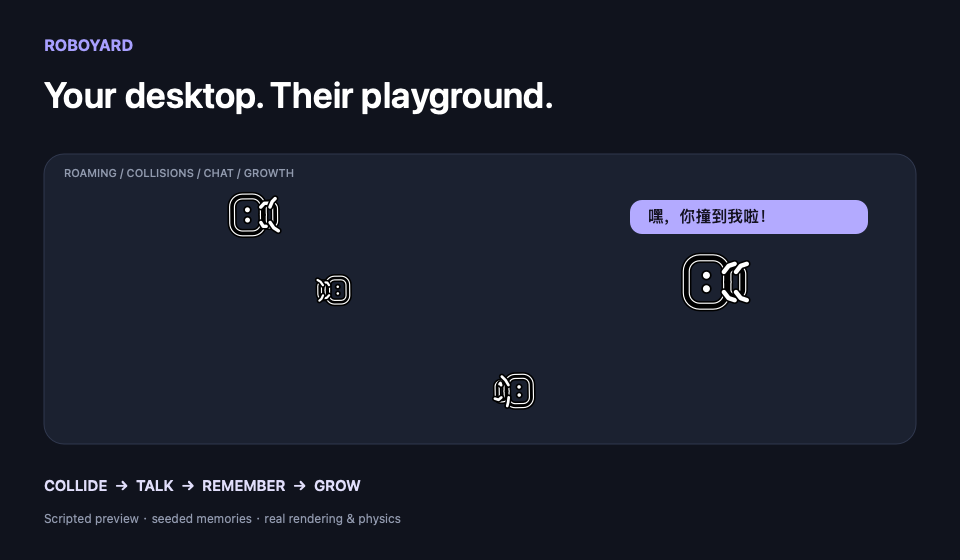
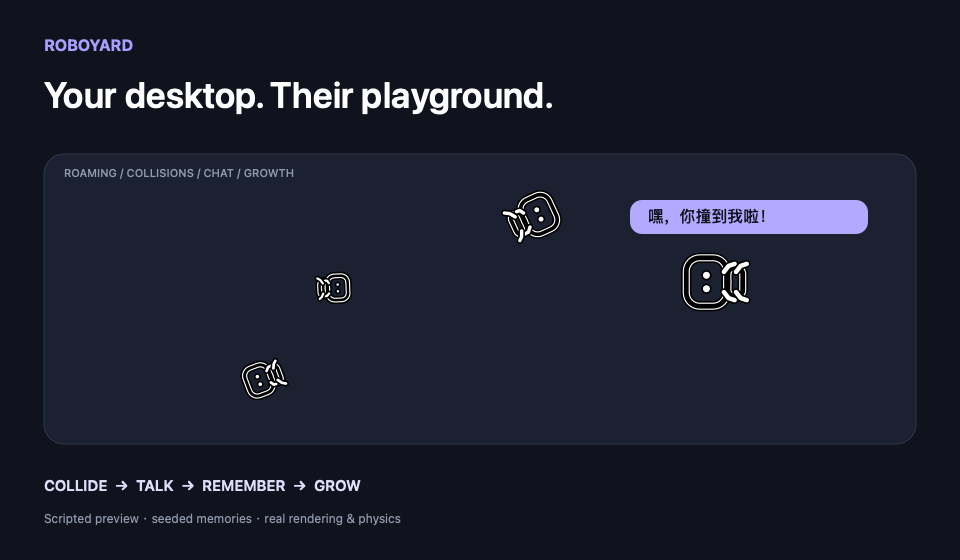
Ship 5.0: robot faces, battery bars, and unwind the force-unwraps
Styles (Closes #3):
- MBTI group accents (cheeks + antenna tips) on desk and portraits
- Growth antennae (nub/stalk/spark), sleepy eyes when tired
- On-desk energy bar, hidden at full charge

Fixes #1: pet bubbles wait their turn instead of stacking on chat.
Fixes #2: guard NSGraphicsContext.current, statusItem is Optional now.
Also: render-preview.sh was stale-broken; compiles whole app minus
@main now. Preview assets regenerated.

Tests: 58 green; bundle + strict signature verified.

diff --git a/Sources/RoboYard/RobotMark.swift b/Sources/RoboYard/RobotMark.swift
@@ -2,6 +2,24 @@ import AppKit
 import QuartzCore
 
 enum RobotMark {
+    /// Fixed sRGB palette so accents test exact and look the same on any wallpaper.
+    static func accent(for group: String) -> NSColor {
+        switch group {
+        case "NT": NSColor(srgbRed: 0.62, green: 0.50, blue: 0.95, alpha: 1)
+        case "NF": NSColor(srgbRed: 0.97, green: 0.52, blue: 0.70, alpha: 1)
+        case "SJ": NSColor(srgbRed: 0.30, green: 0.78, blue: 0.72, alpha: 1)
+        case "SP": NSColor(srgbRed: 1.00, green: 0.62, blue: 0.25, alpha: 1)
+        default: NSColor(srgbRed: 0.60, green: 0.60, blue: 0.65, alpha: 1)
+        }
+    }
+
+    static func energyTint(_ energy: Double) -> NSColor {
+        if energy <= ChargeLaw.goHomeBelow { NSColor(srgbRed: 0.95, green: 0.30, blue: 0.30, alpha: 1) }
+        else if energy <= ChargeLaw.talkBelow { NSColor(srgbRed: 1.00, green: 0.62, blue: 0.20, alpha: 1) }
+        else if energy >= ChargeLaw.emergeAbove { NSColor(srgbRed: 0.35, green: 0.80, blue: 0.45, alpha: 1) }
+        else { NSColor(white: 1, alpha: 0.8) }
+    }
+
     static func lid(at time: CFTimeInterval = CACurrentMediaTime(), cycle: Double = 2.05) -> CGFloat {
         let t = time.truncatingRemainder(dividingBy: cycle)
         if t < 0.09 {
@@ -36,14 +54,88 @@ enum RobotMark {
     }
 
     static func drawBot(in g: CGRect, lid: CGFloat, gait: CGFloat, speed: CGFloat = 40, sit: CGFloat = 0,
-                        tired: CGFloat = 0, glow: Bool = false) {
+                        tired: CGFloat = 0, glow: Bool = false,
+                        accent: NSColor? = nil, stage: Int = 0, energy: Double = 1) {
         let drop = sit * g.height * 0.16
         let box = g.offsetBy(dx: 0, dy: -drop)
         let bob = speed > 12 ? sin(gait * .pi * 2) * g.height * 0.04 * (1 - tired) : 0
         let body = box.offsetBy(dx: 0, dy: bob)
+        let shut = max(lid, tired * 0.55)
+        antenna(in: body, stage: stage, accent: accent)
         let ink: NSColor = tired > 0.45 ? NSColor.white.withAlphaComponent(0.72) : .white
-        draw(in: body, lid: lid, ink: ink, halo: glow ? NSColor.systemYellow.withAlphaComponent(0.9) : .black)
+        draw(in: body, lid: shut, ink: ink, halo: glow ? NSColor.systemYellow.withAlphaComponent(0.9) : .black)
         legs(in: body, gait: gait, speed: speed * (1 - tired * 0.5), sit: sit)
+        if let accent { cheeks(in: body, accent: accent) }
+        // Full charge stays clean (icons, previews); the bar appears once drained.
+        if energy < 0.995 { energyBar(in: body, energy: energy) }
+    }
+
+    private static func headRect(in g: CGRect) -> CGRect {
+        CGRect(x: g.minX + g.width * 0.14, y: g.minY + g.height * 0.32,
+               width: g.width * 0.72, height: g.height * 0.60)
+    }
+
+    /// Growth antennae: curious nub, thoughtful stalk, awakened spark.
+    /// Drawn before the body so the head stroke overlaps the base.
+    private static func antenna(in g: CGRect, stage: Int, accent: NSColor?) {
+        guard stage >= 1 else { return }
+        let s = min(g.width, g.height)
+        let head = headRect(in: g)
+        let base = CGPoint(x: g.midX, y: head.maxY - s * 0.02)
+        let tipColor = accent ?? NSColor.white
+        if stage == 1 {
+            let dot = CGPoint(x: g.midX, y: head.maxY + s * 0.02)
+            dotDot(at: dot, radius: s * 0.035, color: tipColor)
+            return
+        }
+        let tip = CGPoint(x: g.midX, y: head.maxY + s * 0.11)
+        bone([base, tip], width: max(1.0, s / 24))
+        dotDot(at: tip, radius: s * 0.04, color: tipColor)
+        if stage >= 3 {
+            let len = s * 0.055
+            let spark = NSBezierPath()
+            spark.move(to: CGPoint(x: tip.x - len, y: tip.y)); spark.line(to: CGPoint(x: tip.x + len, y: tip.y))
+            spark.move(to: CGPoint(x: tip.x, y: tip.y - len)); spark.line(to: CGPoint(x: tip.x, y: tip.y + len))
+            spark.lineCapStyle = .round
+            tipColor.setStroke()
+            spark.lineWidth = max(1.0, s / 30)
+            spark.stroke()
+        }
+    }
+
+    private static func cheeks(in g: CGRect, accent: NSColor) {
+        let head = headRect(in: g)
+        let open = max(1.4, g.width * 0.13)
+        let cy = head.midY - open * 0.5 - g.height * 0.055
+        let r = open * 0.42
+        for x in [head.midX - g.width * 0.10, head.midX + g.width * 0.10] {
+            accent.withAlphaComponent(0.85).setFill()
+            NSBezierPath(ovalIn: CGRect(x: x - r, y: cy - r, width: r * 2, height: r * 2)).fill()
+        }
+    }
+
+    /// Thin charge bar under the feet; same thresholds as the warehouse meter.
+    private static func energyBar(in g: CGRect, energy: Double) {
+        let w = g.width * 0.52
+        let h = max(1.6, g.height * 0.05)
+        let bar = CGRect(x: g.midX - w / 2, y: g.minY - h - g.height * 0.03, width: w, height: h)
+        NSColor.black.withAlphaComponent(0.55).setFill()
+        NSBezierPath(roundedRect: bar, xRadius: h / 2, yRadius: h / 2).fill()
+        let e = min(1, max(0, energy))
+        if e > 0.01 {
+            energyTint(e).setFill()
+            NSBezierPath(roundedRect: CGRect(x: bar.minX, y: bar.minY, width: bar.width * e, height: bar.height),
+                          xRadius: h / 2, yRadius: h / 2).fill()
+        }
+    }
+
+    private static func dotDot(at p: CGPoint, radius: CGFloat, color: NSColor) {
+        NSColor.black.setFill()
+        NSBezierPath(ovalIn: CGRect(x: p.x - radius - 0.8, y: p.y - radius - 0.8,
+                                    width: (radius + 0.8) * 2, height: (radius + 0.8) * 2)).fill()
+        color.setFill()
+        NSBezierPath(ovalIn: CGRect(x: p.x - radius, y: p.y - radius,
+                                    width: radius * 2, height: radius * 2)).fill()
     }
 
     private static func legs(in g: CGRect, gait: CGFloat, speed: CGFloat, sit: CGFloat) {

diff --git a/Sources/RoboYard/AppDelegate.swift b/Sources/RoboYard/AppDelegate.swift
@@ -3,7 +3,7 @@ import SwiftUI
 
 @MainActor
 final class AppDelegate: NSObject, NSApplicationDelegate, NSMenuDelegate {
-    private var statusItem: NSStatusItem!
+    private var statusItem: NSStatusItem?
     private let robotView = RobotIconView()
     private var journalWindow: NSWindow?
     private var warehouseWindow: NSWindow?
@@ -26,7 +26,7 @@ final class AppDelegate: NSObject, NSApplicationDelegate, NSMenuDelegate {
     }
 
     private func refresh() {
-        guard let button = statusItem.button else { return }
+        guard let button = statusItem?.button else { return }
         let visible = Critters.shared.crawlOn
         button.title = ""
         button.image = nil
@@ -95,7 +95,7 @@ final class AppDelegate: NSObject, NSApplicationDelegate, NSMenuDelegate {
         quit.target = self
         menu.addItem(quit)
         menu.delegate = self
-        statusItem.menu = menu
+        statusItem?.menu = menu
         journalWindow?.title = copy.journalTitle
         warehouseWindow?.title = copy.warehouseTitle
     }
@@ -106,8 +106,8 @@ final class AppDelegate: NSObject, NSApplicationDelegate, NSMenuDelegate {
         menuPulse = Timer(timeInterval: 0.4, repeats: true) { [weak self] _ in
             Task { @MainActor in
                 guard let self else { return }
-                self.statusItem.menu?.item(withTag: 98)?.title = Critters.shared.summaryLine
-                self.statusItem.menu?.item(withTag: 99)?.title = CritterTalk.shared.statusLine
+                self.statusItem?.menu?.item(withTag: 98)?.title = Critters.shared.summaryLine
+                self.statusItem?.menu?.item(withTag: 99)?.title = CritterTalk.shared.statusLine
             }
         }
         RunLoop.main.add(menuPulse!, forMode: .common)

diff --git a/Sources/RoboYard/Critters.swift b/Sources/RoboYard/Critters.swift
@@ -159,7 +159,8 @@ final class Critters: NSObject {
             let badge: String? = badges.isEmpty ? nil : badges.joined(separator: " · ")
             return YardRow(id: c.id, name: c.name, code: c.mbti.code, stage: c.memory.stage().title,
                            charge: c.charge, post: c.post, refused: c.memory.refused,
-                           bodySize: c.memory.bodySize(), worldVisible: crawlOn, friendBadge: badge)
+                           bodySize: c.memory.bodySize(), worldVisible: crawlOn, friendBadge: badge,
+                           group: c.mbti.group, stageLevel: c.memory.stage().rawValue)
         }
     }
 
@@ -205,7 +206,20 @@ final class Critters: NSObject {
               let bot = colonist.bot,
               PetLaw.canPet(lastPet: bot.petCool, now: now)
         else { return }
-        pet(colonist, bot: bot, now: now)
+        // Same display-level turn-taking as model lines (fixes #1):
+        // wait for visible bubbles to expire, then re-validate so rapid
+        // double-clicks can't double-apply.
+        Task { @MainActor [weak self, weak bot, weak colonist] in
+            guard let self, let bot, let colonist else { return }
+            await self.waitForBubbleTurn(bot: bot, other: nil, timeout: 3)
+            let later = CACurrentMediaTime()
+            guard self.crawlOn,
+                  colonist.post == .yard || colonist.post == .emerging,
+                  self.bots.contains(where: { $0 === bot }),
+                  PetLaw.canPet(lastPet: bot.petCool, now: later)
+            else { return }
+            self.pet(colonist, bot: bot, now: later)
+        }
     }
 
     private func pet(_ colonist: Colonist, bot: Bot, now: CFTimeInterval) {

diff --git a/Tests/RoboYardTests/RobotMarkTests.swift b/Tests/RoboYardTests/RobotMarkTests.swift
@@ -1,0 +1,36 @@
+import AppKit
+import Testing
+@testable import RoboYard
+
+struct RobotMarkTests {
+    private func rgb(_ color: NSColor) -> (CGFloat, CGFloat, CGFloat) {
+        var r: CGFloat = 0, g: CGFloat = 0, b: CGFloat = 0, a: CGFloat = 0
+        color.usingColorSpace(.sRGB)!.getRed(&r, green: &g, blue: &b, alpha: &a)
+        return (r, g, b)
+    }
+
+    private func same(_ a: NSColor, _ b: NSColor) -> Bool {
+        let x = rgb(a), y = rgb(b)
+        return abs(x.0 - y.0) < 0.01 && abs(x.1 - y.1) < 0.01 && abs(x.2 - y.2) < 0.01
+    }
+
+    @Test
+    func eachGroupGetsItsOwnAccent() {
+        let nt = RobotMark.accent(for: "NT")
+        let nf = RobotMark.accent(for: "NF")
+        let sj = RobotMark.accent(for: "SJ")
+        let sp = RobotMark.accent(for: "SP")
+        #expect(!same(nt, nf) && !same(nt, sj) && !same(nt, sp))
+        #expect(!same(nf, sj) && !same(nf, sp) && !same(sj, sp))
+        #expect(same(RobotMark.accent(for: "??"), RobotMark.accent(for: "")))
+    }
+
+    @Test
+    func energyTintFollowsChargeThresholds() {
+        #expect(same(RobotMark.energyTint(0.05), RobotMark.energyTint(ChargeLaw.goHomeBelow)))
+        #expect(same(RobotMark.energyTint(0.15), RobotMark.energyTint(ChargeLaw.talkBelow)))
+        #expect(same(RobotMark.energyTint(0.95), RobotMark.energyTint(ChargeLaw.emergeAbove)))
+        #expect(!same(RobotMark.energyTint(0.05), RobotMark.energyTint(0.5)))
+        #expect(!same(RobotMark.energyTint(0.5), RobotMark.energyTint(0.95)))
+    }
+}

diff --git a/Sources/RoboYard/RobotPortrait.swift b/Sources/RoboYard/RobotPortrait.swift
@@ -5,6 +5,9 @@ struct RobotPortrait: NSViewRepresentable {
     var size: CGFloat
     var tired: CGFloat = 0
     var glow: Bool = false
+    var accent: NSColor? = nil
+    var stage: Int = 0
+    var energy: Double = 1
 
     func makeNSView(context: Context) -> PortraitView { PortraitView() }
 
@@ -12,6 +15,9 @@ struct RobotPortrait: NSViewRepresentable {
         view.bodySize = size
         view.tired = tired
         view.glow = glow
+        view.accent = accent
+        view.stage = stage
+        view.energy = energy
         view.needsDisplay = true
     }
 
@@ -19,6 +25,9 @@ struct RobotPortrait: NSViewRepresentable {
         var bodySize: CGFloat = 16
         var tired: CGFloat = 0
         var glow = false
+        var accent: NSColor?
+        var stage = 0
+        var energy = 1.0
 
         override func draw(_ dirtyRect: NSRect) {
             let side = min(bounds.width, bounds.height) * 0.78
@@ -26,7 +35,8 @@ struct RobotPortrait: NSViewRepresentable {
                              y: (bounds.height - side) / 2,
                              width: side, height: side)
             RobotMark.drawBot(in: box, lid: 0, gait: 0, speed: 0, sit: tired * 0.4,
-                              tired: tired, glow: glow)
+                              tired: tired, glow: glow,
+                              accent: accent, stage: stage, energy: energy)
         }
     }
 }

diff --git a/Sources/RoboYard/SwarmUI.swift b/Sources/RoboYard/SwarmUI.swift
@@ -25,18 +25,19 @@ final class SwarmCanvas: NSView {
     override var wantsDefaultClipping: Bool { false }
 
     override func draw(_ dirtyRect: NSRect) {
-        guard let window else { return }
+        guard let window, let ctx = NSGraphicsContext.current?.cgContext else { return }
         for bot in bots {
             let size = bot.bodySize
             let local = convert(window.convertPoint(fromScreen: bot.point), from: nil)
             let g = CGRect(x: local.x - size / 2, y: local.y - size / 2, width: size, height: size)
-            let ctx = NSGraphicsContext.current!.cgContext
             ctx.saveGState()
             ctx.translateBy(x: local.x, y: local.y)
             ctx.rotate(by: bot.angle)
             ctx.translateBy(x: -local.x, y: -local.y)
             RobotMark.drawBot(in: g, lid: lid, gait: bot.gait, speed: bot.speed, sit: bot.sit,
-                              tired: 1 - bot.limp, glow: highlights.contains(bot.id))
+                              tired: 1 - bot.limp, glow: highlights.contains(bot.id),
+                              accent: RobotMark.accent(for: bot.mbti.group),
+                              stage: bot.memory.stage().rawValue, energy: bot.energy)
             ctx.restoreGState()
         }
     }

diff --git a/Sources/RoboYard/RobotJournalView.swift b/Sources/RoboYard/RobotJournalView.swift
@@ -40,7 +40,10 @@ struct RobotJournalView: View {
                     ForEach(store.profiles) { profile in
                         VStack(alignment: .leading, spacing: 12) {
                             HStack(spacing: 12) {
-                                RobotPortrait(size: profile.bodySize())
+                                let charge = Critters.shared.colonists.first(where: { $0.id == profile.id })?.charge ?? 1
+                                RobotPortrait(size: profile.bodySize(),
+                                              accent: RobotMark.accent(for: profile.mbti.group),
+                                              stage: profile.stage().rawValue, energy: charge)
                                     .frame(width: 56, height: 56)
                                 VStack(alignment: .leading, spacing: 4) {
                                     Text("\(profile.name) · \(profile.stage().title)")

diff --git a/Sources/RoboYard/WarehouseView.swift b/Sources/RoboYard/WarehouseView.swift
@@ -96,7 +96,8 @@ private struct WarehouseCard: View {
         Button(action: pick) {
             VStack(spacing: 8) {
                 ZStack(alignment: .topTrailing) {
-                    RobotPortrait(size: max(18, row.bodySize), tired: row.tired, glow: row.post == .warehouse && row.charge < ChargeLaw.emergeAbove)
+                    RobotPortrait(size: max(18, row.bodySize), tired: row.tired, glow: row.post == .warehouse && row.charge < ChargeLaw.emergeAbove,
+                                      accent: RobotMark.accent(for: row.group), stage: row.stageLevel, energy: row.charge)
                         .frame(height: 56)
                     Text(String(format: "%02d", row.id))
                         .font(.system(.caption2, design: .monospaced).weight(.semibold))

diff --git a/Sources/RoboYard/Yard.swift b/Sources/RoboYard/Yard.swift
@@ -62,6 +62,9 @@ struct YardRow: Identifiable {
     let bodySize: Double
     let worldVisible: Bool
     let friendBadge: String?
+    /// MBTI group (NT/NF/SJ/SP) for the portrait accent, and growth stage 0–3.
+    let group: String
+    let stageLevel: Int
 
     var tired: CGFloat { CGFloat(1 - ChargeLaw.limp(for: charge)) }
 

diff --git a/CHANGELOG.md b/CHANGELOG.md
@@ -1,6 +1,14 @@
 # Changelog
 
-## 4.0.0 — 2026-09-14
+## 5.0.0 — 2026-09-14
+
+The robots get faces.
+
+- Personality accents (NT purple / NF pink / SJ teal / SP orange) as cheek dots + antenna tips, on the desk and in warehouse/journal portraits.
+- Growth antennae: curious nub, thoughtful stalk, awakened spark; sleepy eyes when tired (`max(blink, tired*0.55)`).
+- On-desk battery bar under each robot, same thresholds as the warehouse meter; hidden at full charge so icons and previews stay clean.
+- Bug fixes: pet bubbles join display-level turn-taking instead of stacking (#1); `NSGraphicsContext.current` and `statusItem` unwraps hardened (#2); `render-preview.sh` was stale-broken and now compiles the whole app minus `@main` so it can't rot again.
+- Preview assets regenerated with the fixed script.
 
 Bigger yard, shippable.
 
